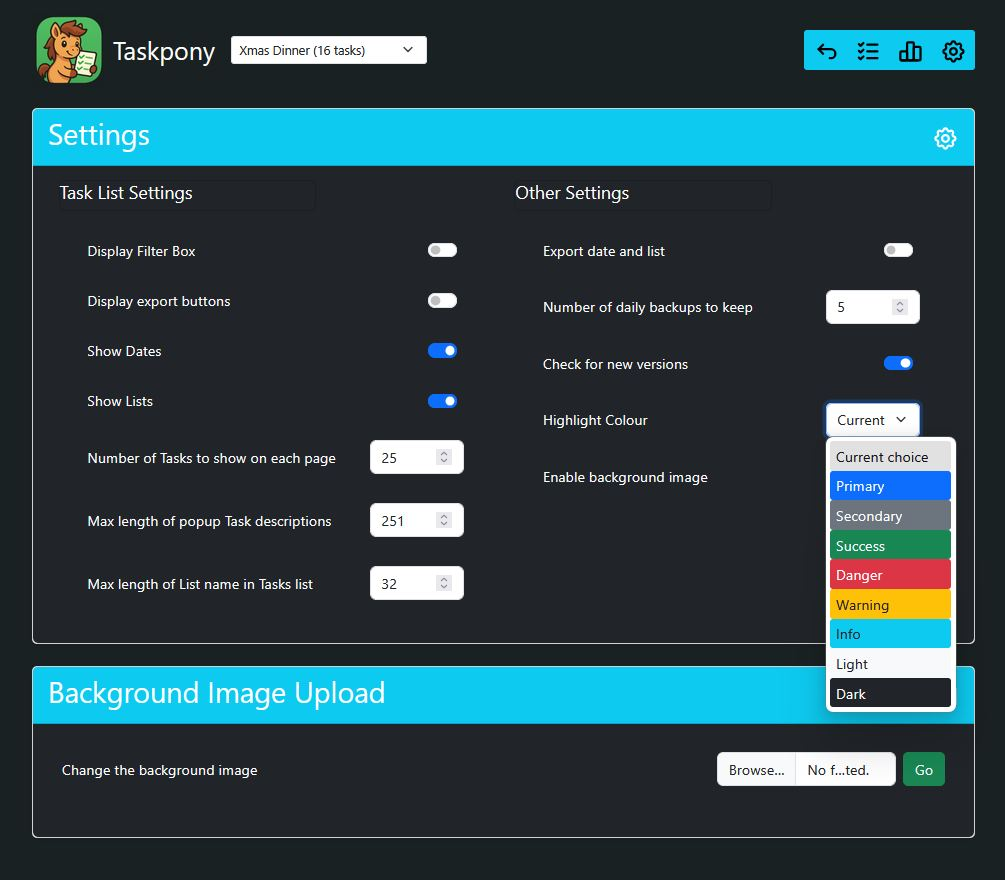
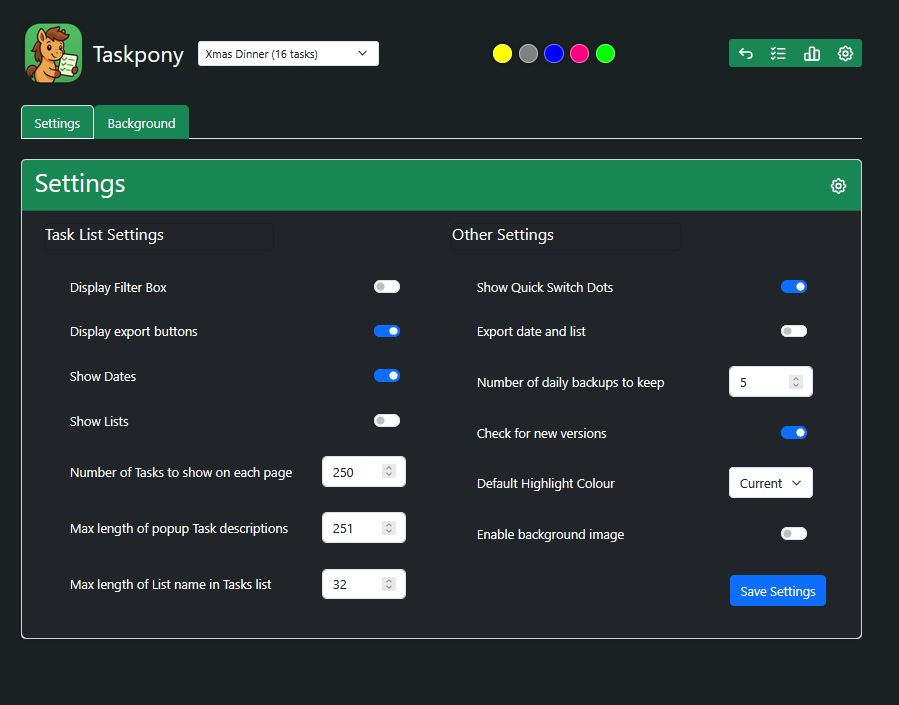
docs and screenshot updates

diff --git a/README.md b/README.md
@@ -5,13 +5,13 @@
 # TASKPONY
 
 - ![T](https://img.shields.io/badge/-T-blue) ransparent - Open source and openly described. Even the database schema is documented.
-- ![A](https://img.shields.io/badge/-A-blue) ir-gapped - Entirely self-contained. Runs without internet access, external services, or tracking.
-- ![S](https://img.shields.io/badge/-S-blue) imple - Easy to install, easy to understand, and easy to operate.
-- ![K](https://img.shields.io/badge/-K-blue) eep everything - Unlimited tasks and unlimited lists — no artificial limits.
-- ![P](https://img.shields.io/badge/-P-blue) rivate - Your data stays with you. No cloud, no telemetry, no external dependencies.
+- ![A](https://img.shields.io/badge/-A-blue) ir-gapped. Runs entirely without internet access, external services, or tracking.
+- ![S](https://img.shields.io/badge/-S-blue) imple - Easy to install. Easy to understand. Easy to operate.
+- ![K](https://img.shields.io/badge/-K-blue) eep everything - Unlimited tasks and unlimited lists.
+- ![P](https://img.shields.io/badge/-P-blue) rivate - Your data stays with you. No cloud. No telemetry. Easily exported.
 - ![O](https://img.shields.io/badge/-O-blue) pen - Export tasks to CSV, PDF, clipboard, or print cleanly.
 - ![N](https://img.shields.io/badge/-N-blue) o clutter - A focused interface that shows only what you actually need.
-- ![Y](https://img.shields.io/badge/-Y-blue) ours - Free to use and always will be. No commercial edition, no hosted version.
+- ![Y](https://img.shields.io/badge/-Y-blue) ours - Free to use and always will be. No commercial edition, no hosted upsell version.
 
 | Desktop View                                                | Mobile View                                      |
 |-------------------------------------------------------------|--------------------------------------------------|
@@ -19,11 +19,11 @@
 
 # Features
 
-Taskpony supports unlimited Tasks organised within unlimited Lists, repeating tasks and free movement of tasks within Lists. Tasks can be exported to the clipboard, CSV, PDF or cleanly printed.
+Taskpony is a self-hosted tasks app. Unlike many, it's explicitly a single-user app intended to be simple to pick up and use. Whilst there are a great many features, I've tried to keep the interface clean, configurable and uncluttered.
 
 No phone app required. The interface is responsive and scales well to all devices. There are no trackers and does not require access to the internet to function as all required files are included. The list will automatically reload if another browser has changed the database to ensure it's up to date.
 
-See some more [Screenshots](#screenshots)
+See some [Screenshots](#screenshots)
 
 # Demo
 
@@ -73,7 +73,9 @@ Copy this to your chosen directory, inspect and adjust as desired, and run: `doc
 
 On completion, Taskpony should be available on http://localhost:5000
 
-The default version mounts a persistant volume in `./data` where the Sqlite database `taskpony.db` will be created automatically.
+The default compose file mounts a persistant volume in `./data` where the Sqlite database `taskpony.db` will be created automatically.
+
+* Stopping Docker-Compose Taskpony: Change to the directory where you saved `docker-compose.yml` and type `docker compose stop`
 
 ### Troubleshooting Docker Compose
 
@@ -90,6 +92,8 @@ Install docker and run something like the following.
 Within a few seconds, Taskpony should be available to your web browser on port 5000
 
 If you want it to run on a different port, change the *first* 5000 to something else.
+
+* Stopping Docker Taskpony: `docker stop $(docker ps -q --filter ancestor=digdilem/taskpony:latest)`
 
 ### Troubleshoooting Docker
 
@@ -159,6 +163,8 @@ ExecStart=/usr/bin/plackup -r -p 5000 /opt/taskpony/taskpony.psgi
 WorkingDirectory=/opt/taskpony
 ```
 
+* Uninstalling Linux Service: `systemctl disable --now taskpony` to permanently stop the service, then remove files from `/opt/taskpony`
+
 ### Troubleshooting
 
 See output logs with `journalctl -u taskpony` or the current status with `systemctl status taskpony`
@@ -201,6 +207,28 @@ Use a reverse proxy - see [#security](#security)
 
 No. It may do in the future but there are no initial plans to do so.
 
+> Can I export my tasks?
+
+Yes, there are three ways.
+
+1. If "Display Export Buttons" is toggled, you can export any of the existing lists by clicking "Copy" or "CSV" buttons to copy that list's tasks to Clipboard or to save as a CSV file
+2. Under Lists -> List Actions, click "Export all tasks" to save a CSV file of all tasks, active and and completed, from all lists.
+3. The Taskpony database is a simple Sqlite3 database. It can be read by any compatible database tool like HeidiSql or interacted with on the command line.
+
+> Can I import tasks from other Task Managers?
+
+No - or at least, this is not a feature I have planned. If you think there's a strong need, please suggest it on [the github page](https://github.com/digdilem/taskpony)
+
+> Can I import tasks from other copies of Taskpony?
+
+Yes, just copy `db/Taskpony.db` from one installation to another. All configuration, tasks and lists are contained within it.
+
+Do make sure that the version of Taskpony you're copying to is the same or a later version than the one you're copying from, otherwise it may not know about any database changes.
+
+> Can I print my tasks?
+
+Yes, if "Display Export Buttons" is toggled, then there are "PDF" or "Print" buttons that print to PDF or produce a clean and printable view. This is especially useful for creating paper shopping lists and the like.
+
 > Can I use a different database type?
 
 Not presently. SQLite was chosen to keep things small and simple. I think it should suffice for a task application.
@@ -242,7 +270,7 @@ If the upgrade includes any database schema changes, Taskpony should automatical
 
 ## Upgrading Docker
 
-Stop the existing container and repeat the installation instructions to pull the new image.
+Stop the existing container and repeat [the installation instructions](#docker) to pull the new image.
 
 # Documentation
 
@@ -250,9 +278,11 @@ Follow the [install guides](#installation) above, and you should be able to acce
 
 ## About Tasks
 
-- Clicking on the Taskpony Logo and name will load the current Tasks Page.
+- Clicking on the Taskpony Logo will load the default list. Clicking on the Taskpony name will reload the current list.
 
-- The default page shows a pulldown menu at the top with an entry for the Default List (change this in the Lists page) followed by "All Lists" followed by an alpha-sorted list of the remaining Lists.
+  - The default page shows a pulldown menu at the top with an entry for the Default List (change this in the Lists page) followed by "All Lists" followed by an alpha-sorted list of the remaining Lists.
+
+  - Next to that, if "Quick Switch Dots" is enabled, could be a row of dots that will switch to different lists.
 
   - Below that is a quick entry form that allows you to add a task to the current list. Because it's autofocused, you can enter multiple tasks by typing, hitting enter, then typing the next one without needing to reselect it with the mouse. This quick form will be missing if "All lists" is selected.
 
@@ -421,7 +451,7 @@ It's not necessary to pay to use Taskpony but  but if you wish to show appreciat
 
 ![Lists Pulldown](docs/lists_pulldown.jpg)
 
-![Deleting a List](docs/delete_list.jpg)
+![List Actions](docs/list_actions.jpg)
 
 ![Statistics](docs/stats.jpg)
 
@@ -437,7 +467,7 @@ Taskpony is built with the help of this great FOSS software:
 - [Bootstrap 5](https://getbootstrap.com/) (Bundled)
 - [JQuery](https://jquery.com/) (Bundled)
 - [Datatables](https://datatables.net/) (Bundled)
-- [Tabler Icons](https://tabler.io/) (Embedded SVGs)
+- [Tabler Icons](https://tabler.io/) (Embedded and included SVGs)
 - [Tyna_Janoch](https://pixabay.com/photos/forest-nature-trees-beech-autumn-7573541/) for the example background image
 
 

diff --git a/docs/roadmap.md b/docs/roadmap.md
@@ -2,7 +2,7 @@
 
 Where Taskpony is going.
 
-Some features for the future that may, or may not, be added.
+Some ideas for the future that may, or may not, be added.
 
   - Configurable and automated deletion of tasks more than NN days since completion, or delete more than NN recent tasks. (Beware repeatable tasks, will need check so that period can't be less than those and vice versa or a repeating task could get deleted before it has a chance to re-activate.)
   - A priority system. Poss traffic-light 3 dots on each task in list for one-touch change. Low, medium, high? Sorted accordingly?
@@ -13,13 +13,13 @@ Some features for the future that may, or may not, be added.
   - Daily email report. Possibly showing outstanding tasks from Default list and summary stats.
   - A history table for tasks and actions. Extra detail for recurring tasks, when lists were created, changed etc.
   - Add ability to switch between dark/light modes, or themes. Possibly using bootswatch.com, but would require a lot of work.
-  - Lists page: Split the three cards into Tabs to keep things above the fold more. Or introduce a quick-add "New List" form like Tasks.
   - Some alternative font choices
-  - A link to show orphaned tasks
   - Frivolity: Some sort of extra banner to celebrate every 100 tasks completed?
+  - Optional sounds.
+  - Top right task icons - perhaps make then flyout on hover to streamline visuals
 
 - Unlikely (Considered and discarded)
-  - Smooshing /Lists, /Settings and /Stats into one multi-tabbed card. This may simplify the header slightly but would change user flow quite a lot. 
+  - Smooshing /Lists, /Settings and /Stats into one multi-tabbed card. This may simplify the header slightly but would change user flow quite a lot.
   - A List Template system. This might be where you can create a list with a pre-defined set of Tasks already populating it. This might be useful for for repeatable workflows. This may be overly complex to define, however, and may not be possible within the [Goals](../README.md#goals)
   - Groups / teams / multiple users / shared and embeddded tasks = Taskpony is a single user Tasks app. There are several good FOSS groupware/multi-user systems around.
   - Authentication, https = See [security](../README.md#security) for an explanation.

diff --git a/docs/database-schema-docs.md b/docs/database-schema-docs.md
@@ -17,9 +17,13 @@ The schema is below.
         CompletedDate = When set as done. Is reset if task unset
         StartDate =  Tasks can be deferred
         ListId = List this task belongs to
+
     Schema 2 added:
         IsRecurring = on|off  Whether a task is set to repeat
         RecurringIntervalDay = Number of days after a task is completed before it is set active
+
+    Schema 3 added:
+        TimesCompleted = Int that increments each time a task is set as completed. Shown on Task Edit page.
 
     / ListsTb  (List of Lists)
         id
